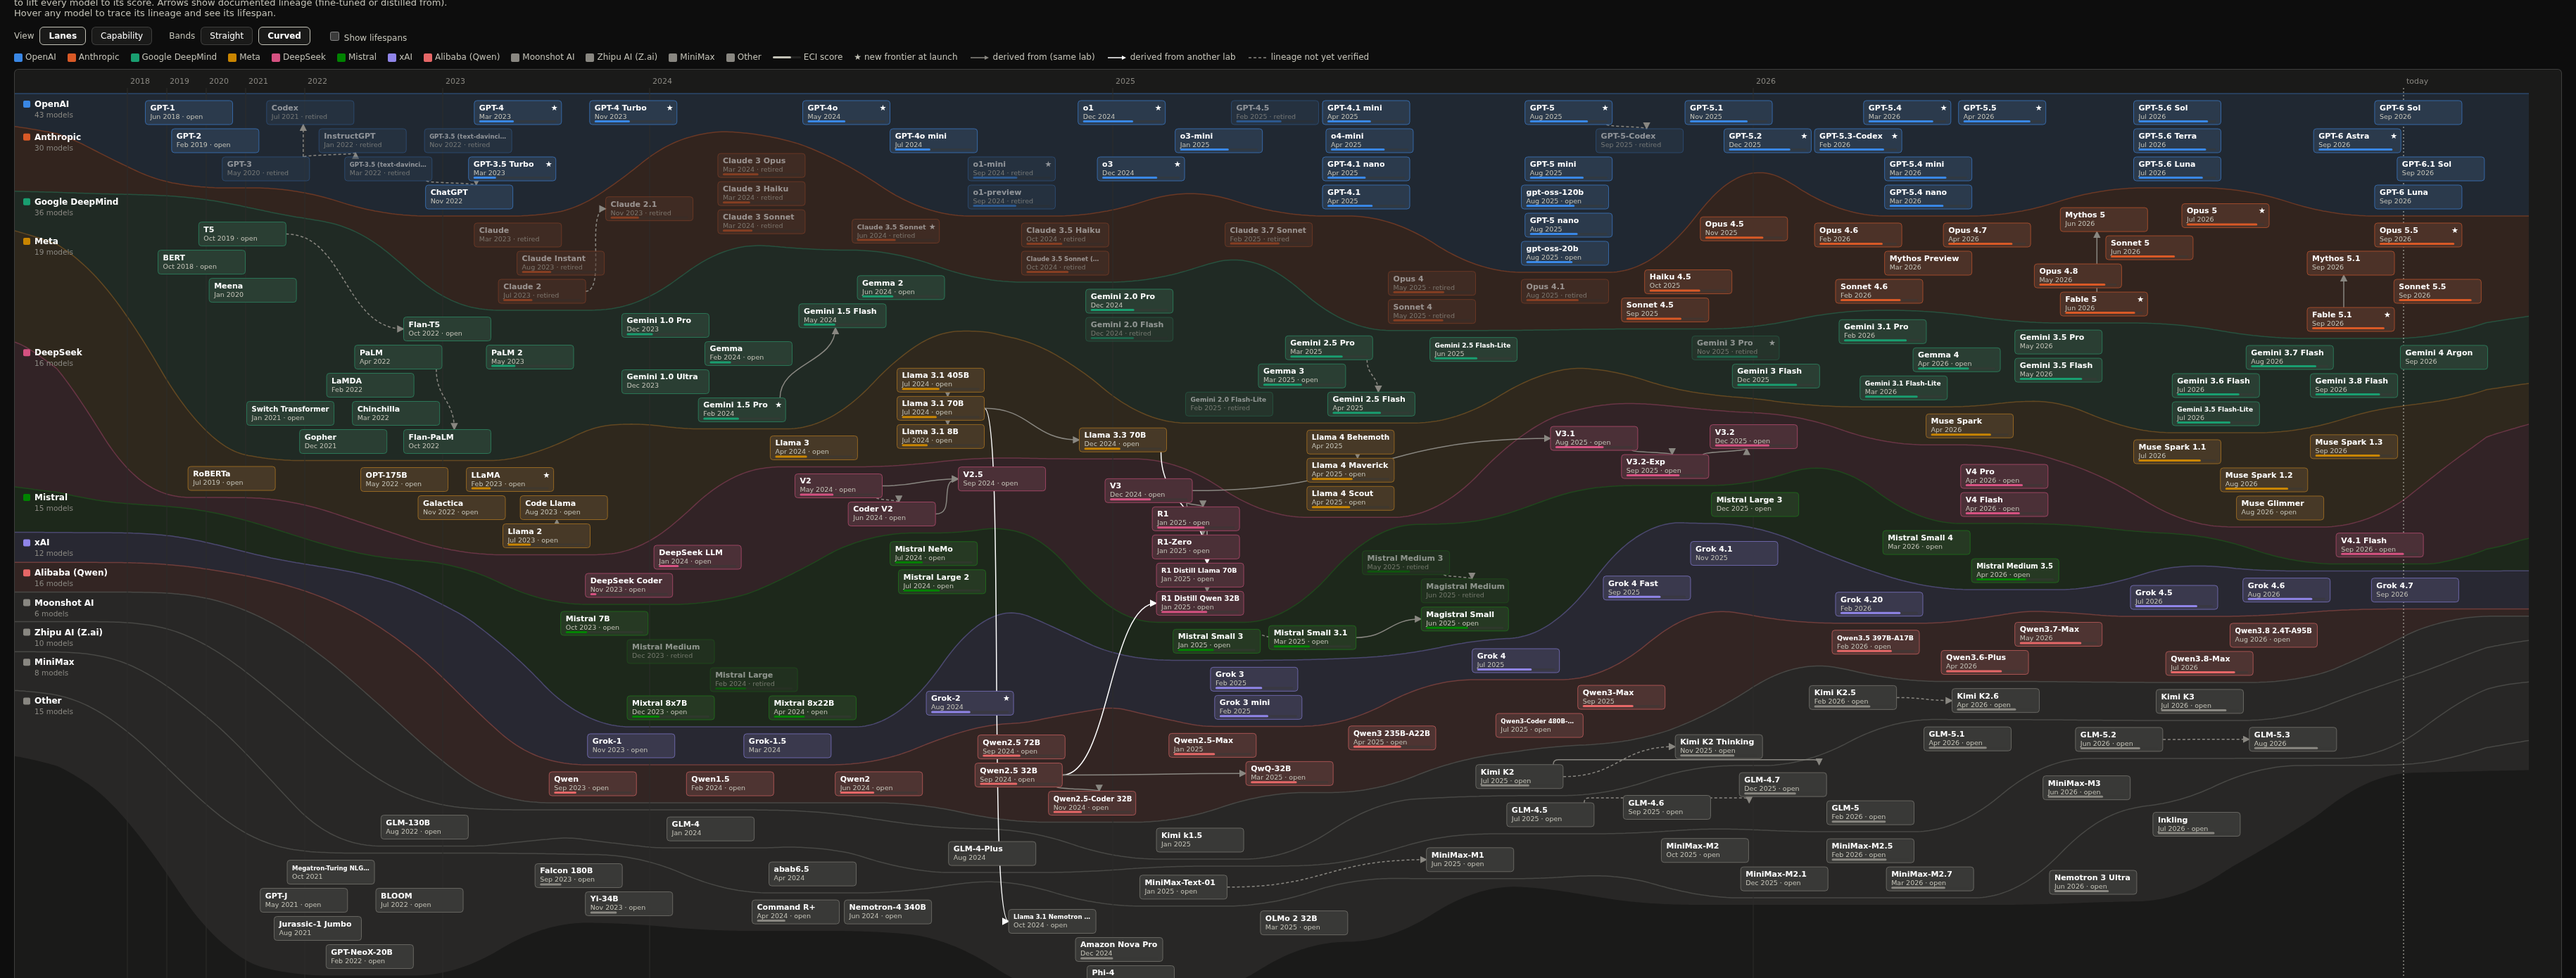
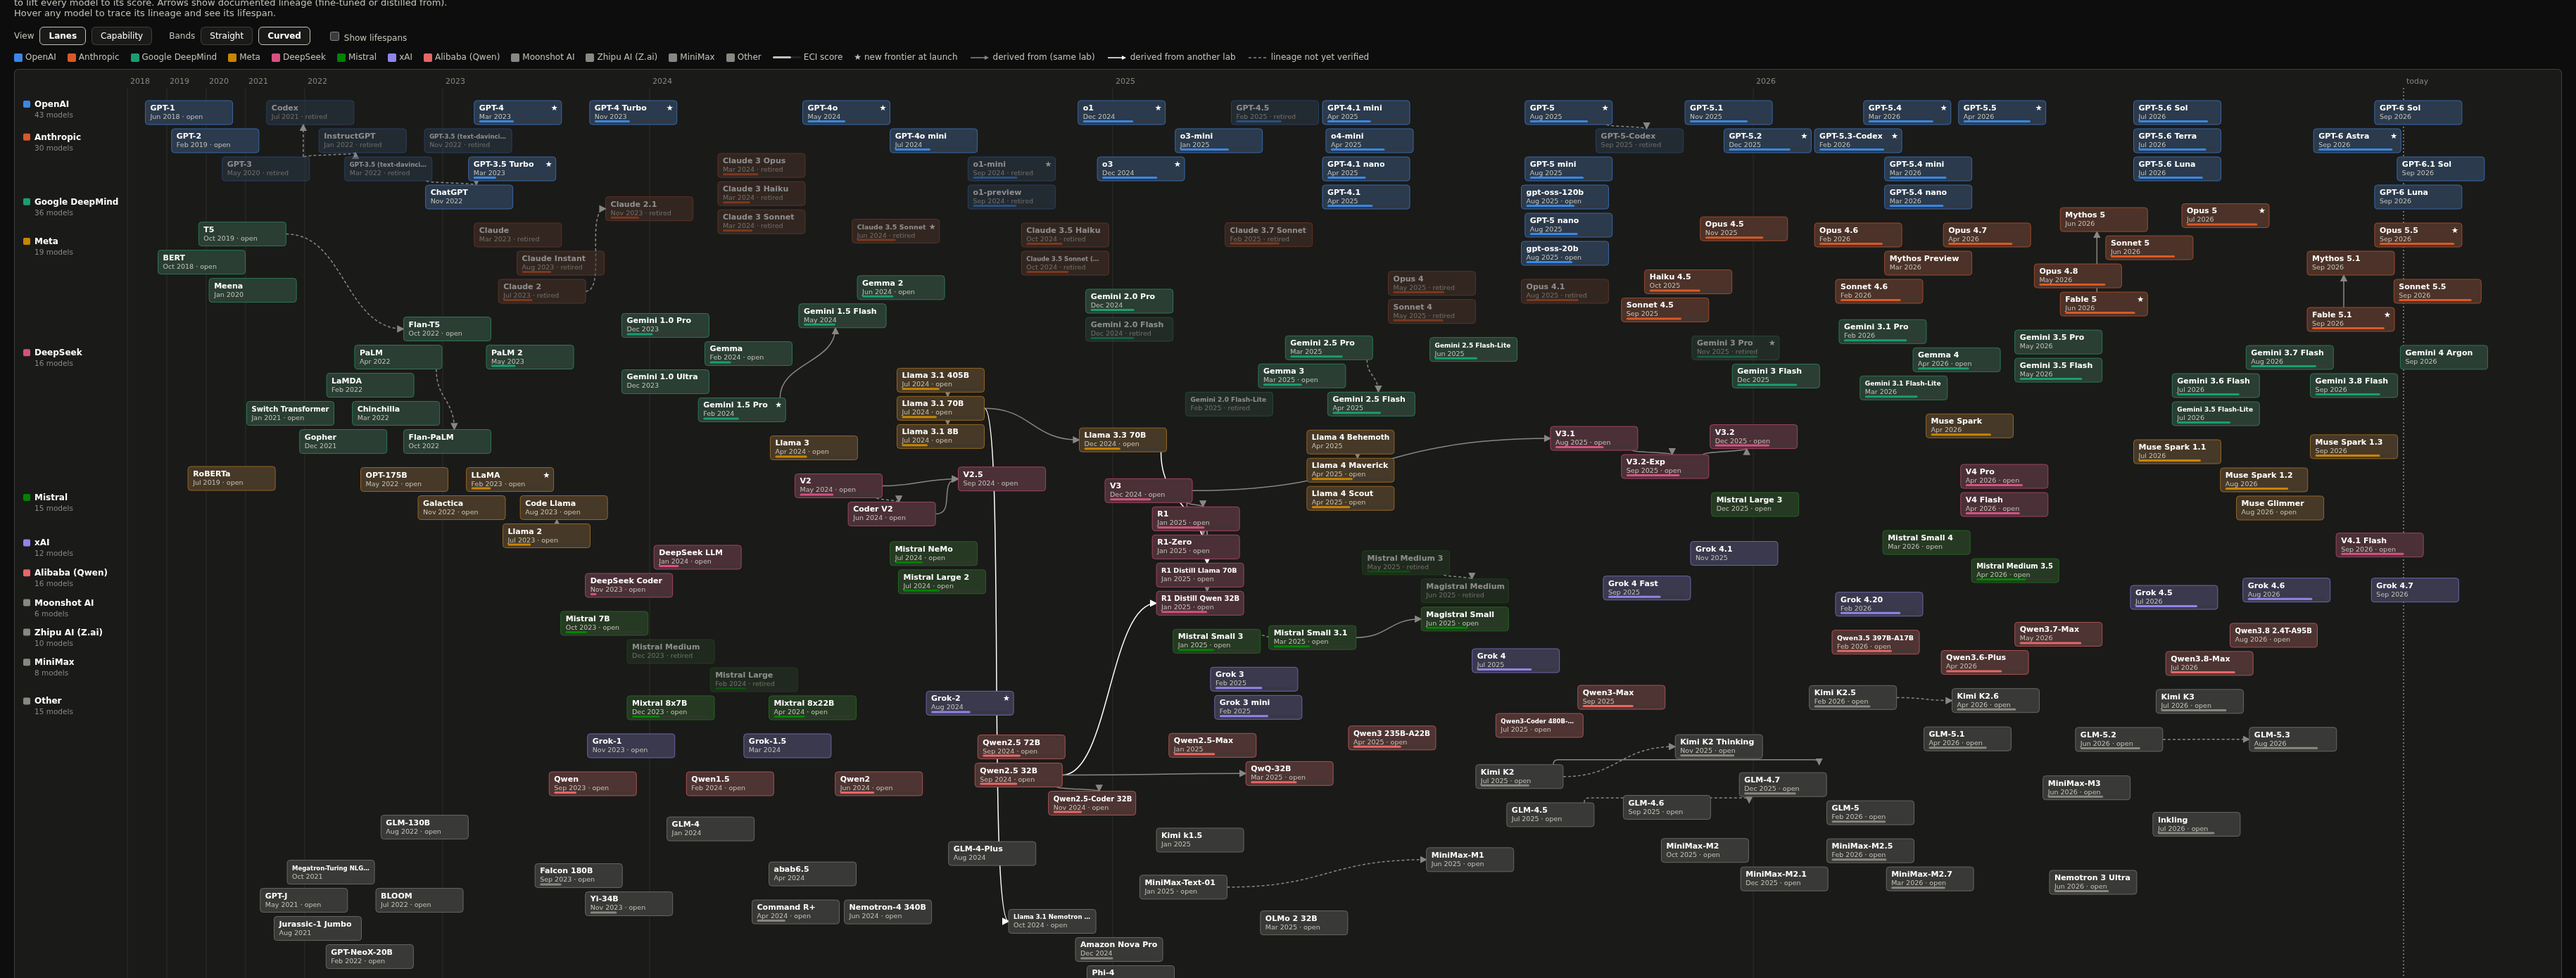
Prototype: show curved bands only as a blurred glow on hover
Bands still drive the layout but are no longer drawn; hovering a box or
anywhere in a band fades in that lab's band as a heavily blurred glow,
and keeps the lab's own models at half brightness during lineage focus.

Changed region(s): [[0.0, 0.5259, 0.9967, 0.8662], [0.0, 0.0928, 0.9967, 0.2784]]

diff --git a/prototype/boxes.html b/prototype/boxes.html
@@ -89,10 +89,10 @@ svg.show-tails .tail { opacity: .7; }
 /* band shape */
 .bands-curved { display: none; }
 svg.curved .bands-curved { display: inline; }
-svg.curved { --lane-tint: 11%; }
-:root[data-theme="dark"] svg.curved { --lane-tint: 14%; }
-@media (prefers-color-scheme: dark) { :root:where(:not([data-theme="light"])) svg.curved { --lane-tint: 14%; } }
-.band-edge { fill: none; stroke-width: 1.5; }
+.band-glow { opacity: 0; filter: url(#band-blur); pointer-events: none; transition: opacity .45s; }
+.band-glow.on { opacity: .2; }
+.band-hit { fill: transparent; pointer-events: all; }
+svg.cap .band-glow.on { opacity: 0; }
 svg.curved .bands-straight { display: none; }
 /* capability mode */
 svg.cap .lane-band, svg.cap .lane-label, svg.cap .lane-count, svg.cap .tail, svg.cap.show-tails .tail { opacity: 0; }
@@ -113,6 +113,7 @@ svg.focus .tail.full { opacity: 1; }
 svg.cap.focus .box.lit .name { opacity: 1; }
 svg.cap.focus .edge:not(.lit) { opacity: 0; }
 svg.focus .box.retired:not(.lit), svg.focus .box.unscored:not(.lit) { opacity: .15; }
+svg.focus .box.kin:not(.lit) { opacity: .5; }
 </style>
 </head>
 <body>
@@ -121,7 +122,7 @@ svg.focus .box.retired:not(.lit), svg.focus .box.unscored:not(.lit) { opacity: .
   <p class="sub">Each box is a model, placed at its first public appearance; the bar along its bottom is its
     Epoch Capabilities Index (ECI) score, and ★ marks a model that topped every earlier model when it launched.
     Busy years get more horizontal room, so gridline spacing varies. Switch to <b>Capability</b> to lift every
-    model to its score. Arrows show documented lineage (fine-tuned or distilled from). Hover any model to trace its lineage and see its lifespan.</p>
+    model to its score. Arrows show documented lineage (fine-tuned or distilled from). Hover any model to trace its lineage and see its lifespan; hovering lights up its lab's band.</p>
   <div class="controls">
     <span>View</span>
     <button id="btn-lanes" aria-pressed="true">Lanes</button>
@@ -290,6 +291,9 @@ svg.setAttribute('width', WIDTH); svg.setAttribute('height', HEIGHT);
 // lanes
 const laneFill = id => `fill: color-mix(in oklab, ${laneColor[id]} var(--lane-tint), var(--surface-1))`;
 const gStraight = el('g', { class: 'bands-straight' }, svg), gCurved = el('g', { class: 'bands-curved' }, svg);
+const gGlow = el('g', { class: 'bands-curved glow-layer' }, gCurved);
+{ const f = el('filter', { id: 'band-blur', x: '-2%', y: '-40%', width: '104%', height: '180%' }, el('defs', {}, svg));
+  el('feGaussianBlur', { stdDeviation: 22 }, f); }
 const laneLabel = (g, id, y, n, name) => {
   el('rect', { x: 12, y: y + 10, width: 10, height: 10, rx: 2, class: 'lane-band', style: `fill: ${laneColor[id]}` }, g);
   el('text', { x: 28, y: y + 19, class: 'lane-label' }, g).textContent = name;
@@ -304,9 +308,10 @@ laneMeta.forEach(L => {
   let d = `M0,${top[0]}`;
   for (let i = 1; i < NS_; i++) d += `L${i * STEP},${top[i].toFixed(1)}`;
   for (let i = NS_ - 1; i >= 0; i--) d += `L${i * STEP},${(top[i] + t[i]).toFixed(1)}`;
-  el('path', { d: d + 'Z', class: 'lane-band', style: laneFill(L.lab.id) }, gCurved);
-  let edge = `M0,${top[0]}`; for (let i = 1; i < NS_; i++) edge += `L${i * STEP},${top[i].toFixed(1)}`;
-  el('path', { d: edge, class: 'band-edge lane-band', style: `stroke: color-mix(in oklab, ${laneColor[L.lab.id]} 45%, var(--surface-1))` }, gCurved);
+  // the band is never drawn crisply: it appears as a heavily blurred glow while its lab is hovered,
+  // and an invisible copy catches the hover anywhere inside the band
+  el('path', { d: d + 'Z', class: 'band-glow', 'data-lab': L.lab.id, style: `fill: ${laneColor[L.lab.id]}` }, gGlow);
+  el('path', { d: d + 'Z', class: 'band-hit', 'data-lab': L.lab.id }, gCurved);
   laneLabel(gCurved, L.lab.id, top[0], L.n, L.lab.name);
 });
 // year gridlines + today
@@ -461,12 +466,20 @@ const walk = (id, map, out) => { for (const n of map[id] || []) if (!out.has(n))
 function focus(id) {
   const lit = new Set([id]); walk(id, parents, lit); walk(id, children, lit);
   svg.classList.add('focus');
-  for (const b of svg.querySelectorAll('.box')) b.classList.toggle('lit', lit.has(b.dataset.id)), b.classList.toggle('self', b.dataset.id === id);
+  const lab = placed[id].m.lab;
+  for (const b of svg.querySelectorAll('.box')) b.classList.toggle('lit', lit.has(b.dataset.id)), b.classList.toggle('self', b.dataset.id === id), b.classList.toggle('kin', placed[b.dataset.id].m.lab === lab);
   for (const e of svg.querySelectorAll('.edge')) e.classList.toggle('lit', lit.has(e.dataset.from) && lit.has(e.dataset.to));
   gHover.replaceChildren();
   if (mode === 'lanes') for (const s of tailSegs(placed[id], Infinity)) el('line', { ...s, class: s.class + ' full' }, gHover);
 }
 gBoxes.addEventListener('mouseover', e => { const g = e.target.closest('.box'); if (g) focus(g.dataset.id); });
+// lab glow: hovering a box or anywhere in a band lights that lab's band
+const glow = lab => { for (const g of gGlow.children) g.classList.toggle('on', g.dataset.lab === lab); };
+svg.addEventListener('mouseover', e => {
+  const box = e.target.closest('.box');
+  glow(box ? placed[box.dataset.id].m.lab : e.target.dataset?.lab ?? null);
+});
+svg.addEventListener('mouseleave', () => glow(null));
 gBoxes.addEventListener('mouseleave', () => { svg.classList.remove('focus'); gHover.replaceChildren(); });
 
 // legend
@@ -482,7 +495,7 @@ document.getElementById('legend').innerHTML =
 if (new URLSearchParams(location.search).get('view') === 'cap') { mode = 'cap'; layout(); }
 if (location.hash) {
   const id = decodeURIComponent(location.hash.slice(1));
-  if (placed[id]) { focus(id); placed[id].g.scrollIntoView({ inline: 'center', block: 'center' }); }
+  if (placed[id]) { focus(id); glow(placed[id].m.lab); placed[id].g.scrollIntoView({ inline: 'center', block: 'center' }); }
 }
 </script>
 </body>
